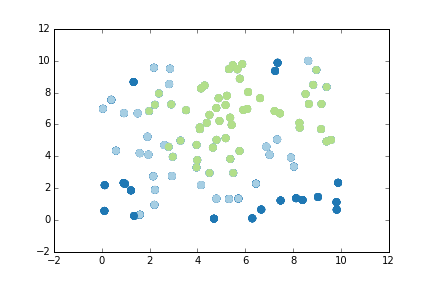
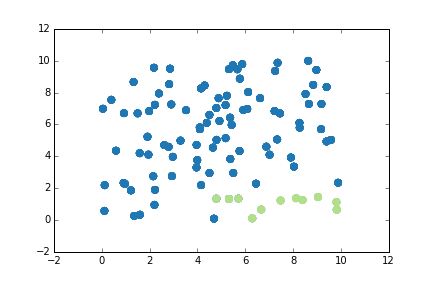
Fix major bug where infection probabilities were not being evaluated correctly agaisnt unif(0,1)

diff --git a/ILM/Simulation/testing/examples.py b/ILM/Simulation/testing/examples.py
@@ -1,8 +1,8 @@
 """examples.py - file for easily testing functionality and creating examples as program is built"""
 
-"""Generate population and propagate infection..."""
+"""Generate population and propagate infection with SI model..."""
 pop = unif_indvs(100, 0, 10, 0, 10, 'test_pop')
-test = si_model(pop, 1, 10, 1, 10)
+test1 = si_model(pop, 1, 10, 1, 10)
 
 """CSV output testing..."""
 savedir="/Users/justin/Dropbox/Projects/[in progress] PhD research/ILM/Simulation/testing/"
@@ -53,11 +53,18 @@ savefig(savedir + "example_mcmc_beta.png")
 plt.plot(mcmc.density)
 savefig(savedir + "example_mcmc_density.png")
 
-
-"""Test SIR model simulation..."""
+"""Test SIcR model simulation..."""
 pop = unif_indvs(100, 0, 10, 0, 10, 'test_pop')
-test1 = sicr_model(pop, 1, 30, 1, 10, 3)
+test2 = sicr_model(pop, 1, 30, 1, 10, 3)
 
 for time in range(1,30):
-    plot_sicr(pop, test1, time)
+    plot_sir(pop, test1, time)
+    savefig(savedir + "SIcR_example_time" + str(time) + ".png")
+    
+"""Test SIR model simulation..."""
+pop = unif_indvs(100, 0, 10, 0, 10, 'test_pop')
+test3 = sir_model(pop, 1, 30, 1, 10, 3)
+
+for time in range(1,30):
+    plot_sir(pop, test3, time)
     savefig(savedir + "SIR_example_time" + str(time) + ".png")

diff --git a/ILM/Simulation/events.py b/ILM/Simulation/events.py
@@ -70,7 +70,7 @@ def infect(pop, alpha, beta, event_db, time):
     infectious = find_nonrecovered(pop, event_db, time)
     susceptible = find_susceptible(pop, event_db, time)
     prob = infect_prob(pop, alpha, beta, infectious, susceptible)
-    new_infections = susceptible.ind_ID[np.asarray(np.where(prob > np.random.uniform(0, 1, size=prob.size))).flat]
+    new_infections = susceptible.ind_ID[np.asarray(np.where(np.greater(prob,np.random.uniform(0, 1, size=prob.size)))).flat]
     return pd.DataFrame({"time":np.append(event_db.time, np.repeat(time, new_infections.size)), 
                          "ind_ID":np.append(event_db.ind_ID, new_infections), 
                          "event_type":np.append(event_db.event_type, np.repeat("infection_status",new_infections.size)), 

diff --git a/ILM/Simulation/output.py b/ILM/Simulation/output.py
@@ -22,7 +22,7 @@ def plot_si(pop, event_db, time):
                          "y":pop.iloc[np.append(i.ind_ID, s.ind_ID)].y})
     plt.scatter(status.x, status.y, c=status.colour, s=60, edgecolors='none')
 
-def plot_sicr(pop, event_db, time):
+def plot_sir(pop, event_db, time):
     """This will create a simple scatterplot of susceptible, infectious, and recovered
     individuals at a given time
     """
